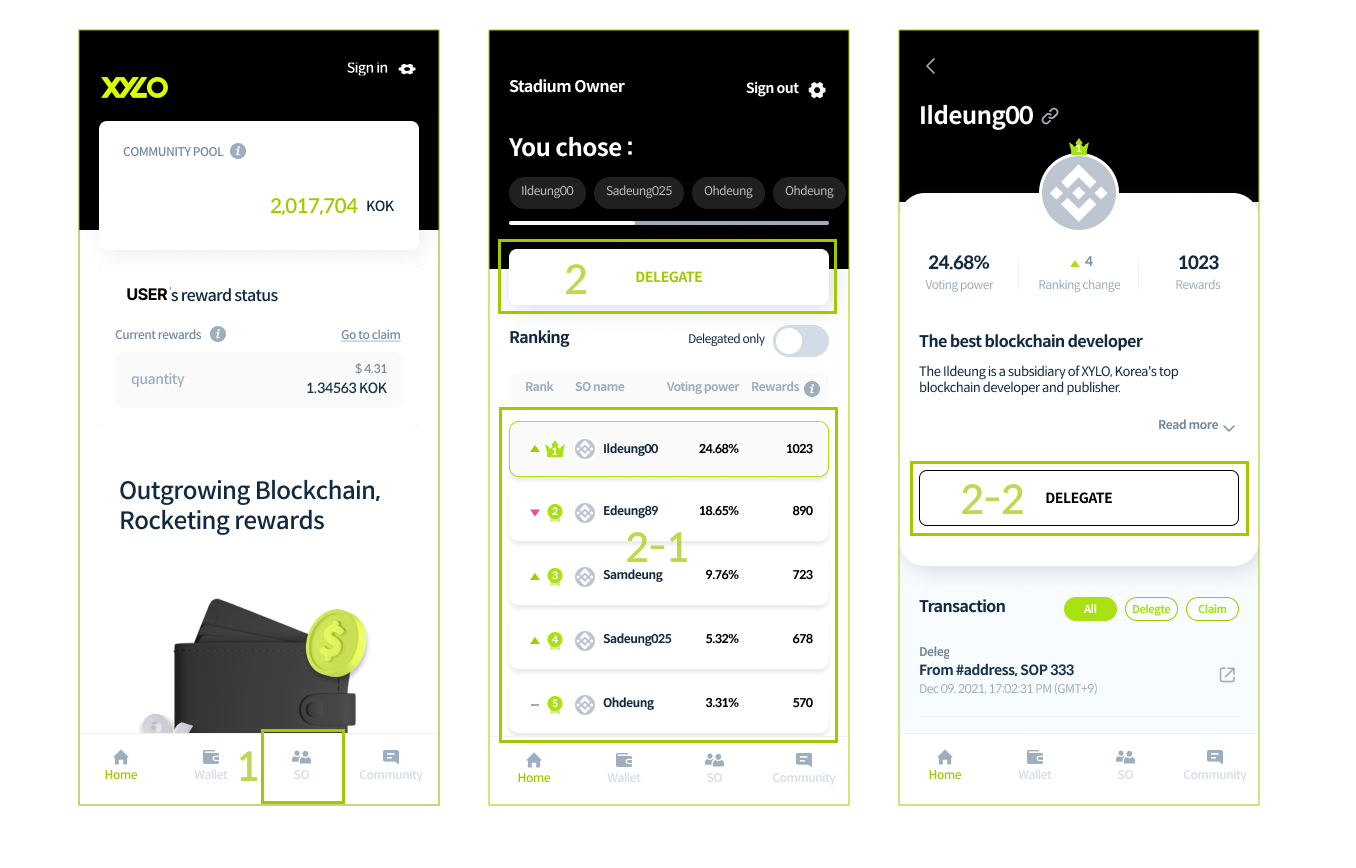
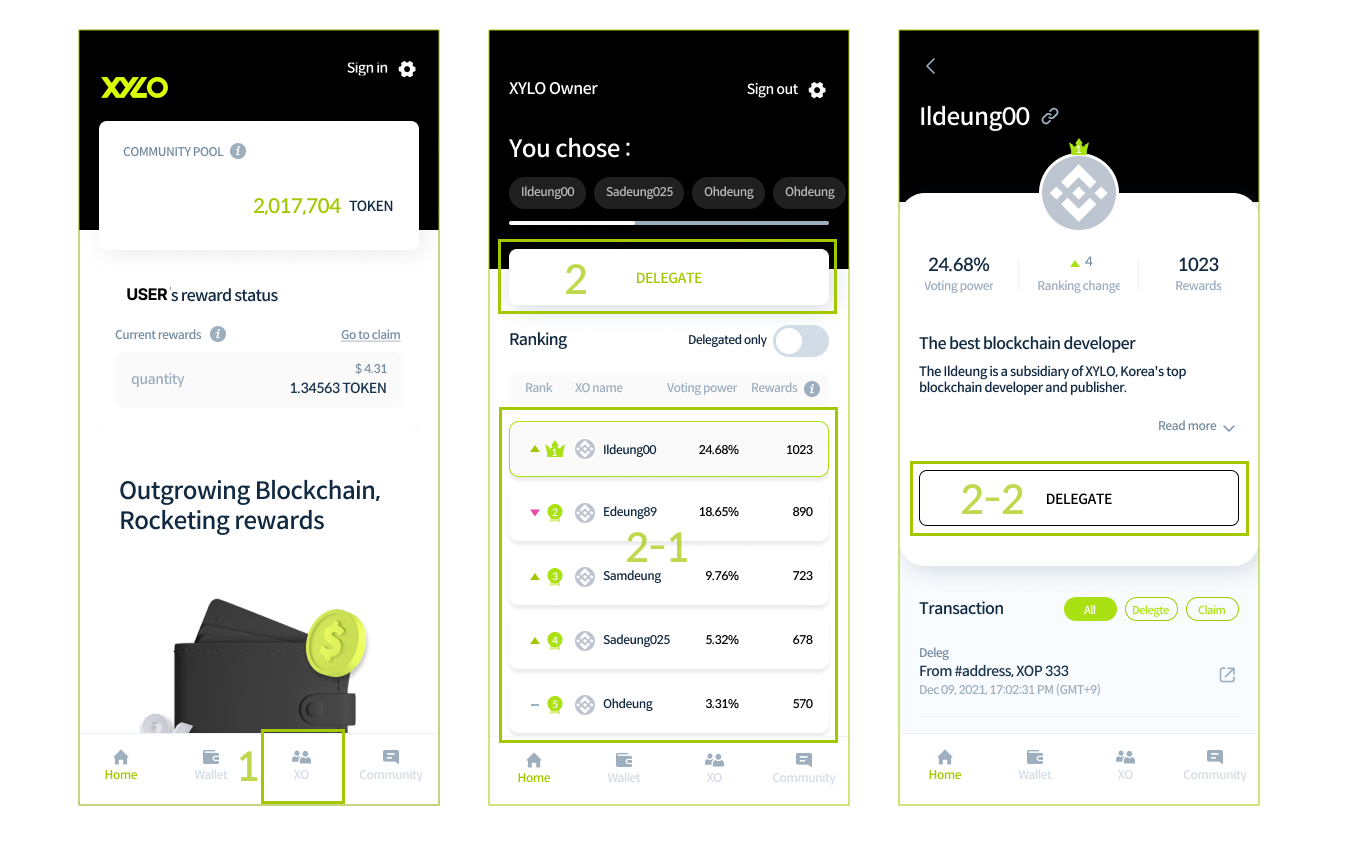
GitBook: [#44] No subject

diff --git a/xylo-app/xylo-app.md b/xylo-app/xylo-app.md
@@ -64,7 +64,7 @@ Community Pool 송금 및 어플을 이용하기 위해서는 TOKEN가 필요합
 
 5\. NEXT 버튼을 클릭 합니다.
 
-<figure><img src="../.gitbook/assets/gitbook_image11.png" alt=""><figcaption></figcaption></figure>
+<figure><img src="../.gitbook/assets/gitbook_image11 (1).png" alt=""><figcaption></figcaption></figure>
 
 6\. 입력된 정보 확인 후 SEND 버튼을 클릭 합니다.
 
@@ -100,7 +100,7 @@ Community Pool 송금 및 어플을 이용하기 위해서는 TOKEN가 필요합
 2. 위임한 XO의 상세 페이지로 이동합니다.
 3. 리워드로 받은 TOKEN 금액을 확인하고, CLAIM 버튼을 클릭 합니다.
 
-<figure><img src="../.gitbook/assets/gitbook_image15.png" alt=""><figcaption></figcaption></figure>
+<figure><img src="../.gitbook/assets/gitbook_image15 (1).png" alt=""><figcaption></figcaption></figure>
 
 4\. TOKEN 금액 확인 후 CONFIRM 버튼을 클릭 합니다.
 
